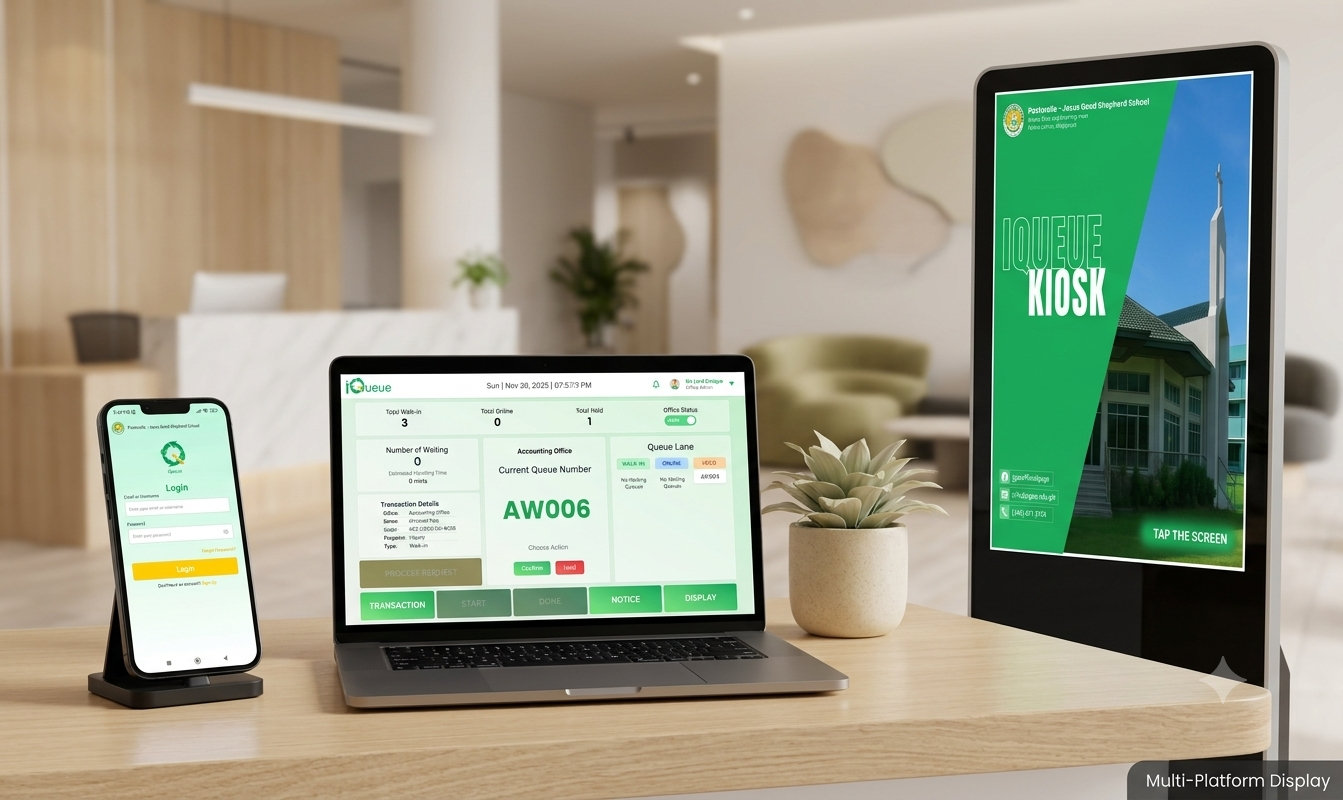
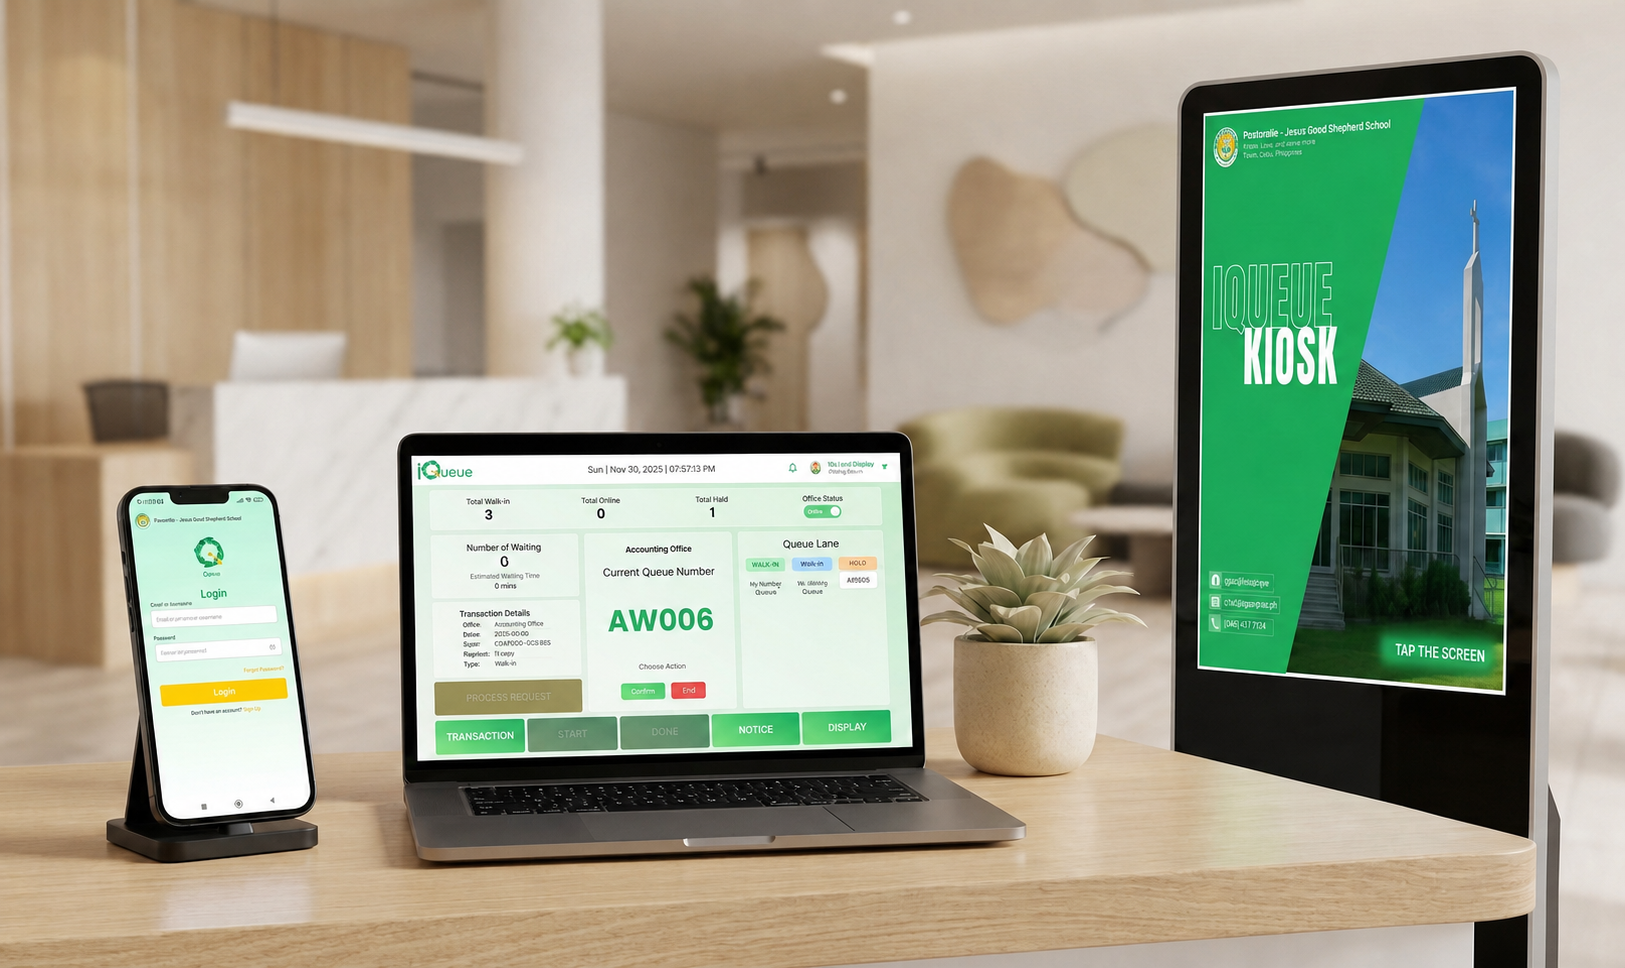
contact us revise

diff --git a/krevance-portfolio/src/components/sections/contactus-page/utils/labels.ts b/krevance-portfolio/src/components/sections/contactus-page/utils/labels.ts
@@ -1,18 +1,23 @@
 // src/components/sections/contactus-page/utils/labels.ts
 import { ProjectType, SelectOption, BudgetOption, TimelineOption, AddOn } from '../types/types';
 
+// ─── Project Types ────────────────────────────────────────────────────────
 export const projectTypes: ProjectType[] = [
-  { id: 1, name: 'System Development' },
-  { id: 4, name: 'E-Commerce Systems' },
-  { id: 5, name: 'Branding & Digital Creative' },
-  { id: 6, name: 'Monthly Website Maintenance' },
+  { id: 1, name: 'Business Operations System' },
+  { id: 2, name: 'Inventory Management System' },
+  { id: 3, name: 'E-commerce Website' },
+  { id: 4, name: 'Portfolio Website' },
+  { id: 5, name: 'Digital Invitation Website' },
+  { id: 6, name: 'Branding and Creative Design' },
+  { id: 7, name: 'System Maintenance and Care Plan' },
 ];
 
+// ─── Stage & Goal Options (unchanged) ────────────────────────────────────
 export const stageOptions: SelectOption[] = [
-  { value: 'idea',        label: 'Just an idea' },
-  { value: 'planning',    label: 'Planning stage' },
-  { value: 'ready',       label: 'Ready to start' },
-  { value: 'inprogress',  label: 'Already in progress' },
+  { value: 'idea',       label: 'Just an idea' },
+  { value: 'planning',   label: 'Planning stage' },
+  { value: 'ready',      label: 'Ready to start' },
+  { value: 'inprogress', label: 'Already in progress' },
 ];
 
 export const goalOptions: SelectOption[] = [
@@ -22,77 +27,134 @@ export const goalOptions: SelectOption[] = [
   { value: 'brand',    label: 'Build brand awareness' },
 ];
 
-// ─── Budget options are now dependent on the selected project type ─────────
+// ─── Budget Options by Project Type ──────────────────────────────────────
 // Key = ProjectType.id, Value = list of budget tiers for that service.
 export const budgetOptionsByProjectType: Record<number, BudgetOption[]> = {
-  // 1 — System Development
+
+  // 1 — Business Operations System
   1: [
-    { id: 'sys-starter',  label: 'Starter Project',  basePrice: 15000 },
-    { id: 'sys-business', label: 'Business Project', basePrice: 40000 },
-    { id: 'sys-premium',  label: 'Premium Project',  basePrice: 95000 },
+    { id: 'bos-starter',  label: 'Starter Package',  basePrice: 20000 },
+    { id: 'bos-business', label: 'Business Package', basePrice: 45000 },
+    { id: 'bos-premium',  label: 'Premium Package',  basePrice: 95000 },
   ],
 
-  // 4 — E-Commerce Systems
+  // 2 — Inventory Management System
+  2: [
+    { id: 'inv-starter',  label: 'Starter Package',  basePrice: 20000 },
+    { id: 'inv-business', label: 'Business Package', basePrice: 45000 },
+    { id: 'inv-premium',  label: 'Premium Package',  basePrice: 95000 },
+  ],
+
+  // 3 — E-commerce Website  (no Starter tier)
+  3: [
+    { id: 'ecom-business', label: 'Business Package', basePrice: 55000 },
+    { id: 'ecom-premium',  label: 'Premium Package',  basePrice: 130000 },
+  ],
+
+  // 4 — Portfolio Website
   4: [
-    { id: 'ecom-business', label: 'Business Project', basePrice: 50000 },
-    { id: 'ecom-premium',  label: 'Premium Project',  basePrice: 120000 },
+    { id: 'port-starter',  label: 'Starter Package',  basePrice: 10000 },
+    { id: 'port-business', label: 'Business Package', basePrice: 20000 },
+    { id: 'port-premium',  label: 'Premium Package',  basePrice: 40000 },
   ],
 
-  // 5 — Branding & Digital Creative
+  // 5 — Digital Invitation Website
   5: [
-    { id: 'brand-starter',  label: 'Starter Project',  basePrice: 2500 },
-    { id: 'brand-business', label: 'Business Project', basePrice: 3500 },
-    { id: 'brand-premium',  label: 'Premium Project',  basePrice: 7500 },
+    { id: 'digi-starter',  label: 'Starter Package',  basePrice: 5000 },
+    { id: 'digi-business', label: 'Business Package', basePrice: 15000 },
+    { id: 'digi-premium',  label: 'Premium Package',  basePrice: 30000 },
   ],
 
-  // 6 — Monthly Website Maintenance
+  // 6 — Branding and Creative Design
   6: [
-    { id: 'maint-starter', label: 'Starter Project (per month)', basePrice: 3000 },
+    { id: 'brand-starter',  label: 'Starter Package',  basePrice: 3000 },
+    { id: 'brand-business', label: 'Business Package', basePrice: 6000 },
+    { id: 'brand-premium',  label: 'Premium Package',  basePrice: 12000 },
+  ],
+
+  // 7 — System Maintenance and Care Plan
+  7: [
+    { id: 'maint-monthly', label: 'Monthly Plan',  basePrice: 1500 },
+    { id: 'maint-yearly',  label: 'Yearly Plan',   basePrice: 15000 },
   ],
 };
 
+// ─── Add-Ons by Project Type ─────────────────────────────────────────────
 export const addOnsByProjectType: Record<number, AddOn[]> = {
-  // 1 — System Development
+
+  // 1 — Business Operations System
   1: [
-    { id: 'sys-domain',          name: 'Website Domain (.com)',           price: 800, priceLabel: '₱800 per year' },
-    { id: 'sys-mobile-platform', name: 'Platform | Mobile Application',   price: 5000, priceLabel: 'Starting at ₱5,000' },
-    { id: 'sys-desktop-platform',name: 'Platform | Desktop Application',  price: 5000, priceLabel: 'Starting at ₱5,000' },
-    { id: 'sys-playstore',       name: 'Application | Google Playstore',  price: 1000 },
-    { id: 'sys-appstore',        name: 'Application | iOS Apple Store',   price: 5000 },
-    { id: 'sys-extra-page',      name: 'Additional Website Page',         price: 1500, priceLabel: '₱1,500 / per page' },
-    { id: 'sys-extra-feature',   name: 'Additional Feature',              price: 2000, priceLabel: 'Starting at ₱2,000' },
-    { id: 'sys-animation',       name: 'Custom Animation / Motion',       price: 3000, priceLabel: '₱3,000 / per page' },
-    { id: 'sys-seo',             name: 'SEO Starter Project',             price: 3000 },
-    { id: 'sys-social-kit',      name: 'Social Media Branding Kit',       price: 2500 },
+    { id: 'bos-domain',           name: 'Website Domain (.com)',          price: 800,  priceLabel: '₱800 per year' },
+    { id: 'bos-mobile-platform',  name: 'Platform | Mobile Application',  price: 5000, priceLabel: 'Starting at ₱5,000' },
+    { id: 'bos-desktop-platform', name: 'Platform | Desktop Application', price: 5000, priceLabel: 'Starting at ₱5,000' },
+    { id: 'bos-playstore',        name: 'Application | Google Playstore', price: 1000 },
+    { id: 'bos-appstore',         name: 'Application | iOS Apple Store',  price: 5000 },
+    { id: 'bos-extra-feature',    name: 'Additional Feature',             price: 2000, priceLabel: 'Starting at ₱2,000' },
+    { id: 'bos-animation',        name: 'Custom Animation / Motion',      price: 3000, priceLabel: '₱3,000 / per page' },
+    { id: 'bos-seo',              name: 'SEO Starter Package',            price: 3000 },
+    { id: 'bos-social-kit',       name: 'Social Media Branding Kit',      price: 2500 },
   ],
 
-  // 4 — E-Commerce Systems
+  // 2 — Inventory Management System
+  2: [
+    { id: 'inv-domain',           name: 'Website Domain (.com)',          price: 800,  priceLabel: '₱800 per year' },
+    { id: 'inv-mobile-platform',  name: 'Platform | Mobile Application',  price: 5000, priceLabel: 'Starting at ₱5,000' },
+    { id: 'inv-desktop-platform', name: 'Platform | Desktop Application', price: 5000, priceLabel: 'Starting at ₱5,000' },
+    { id: 'inv-playstore',        name: 'Application | Google Playstore', price: 1000 },
+    { id: 'inv-appstore',         name: 'Application | iOS Apple Store',  price: 5000 },
+    { id: 'inv-extra-feature',    name: 'Additional Feature',             price: 2000, priceLabel: 'Starting at ₱2,000' },
+    { id: 'inv-barcode',          name: 'Barcode / QR Scanner Module',    price: 5000, priceLabel: 'Starting at ₱5,000' },
+    { id: 'inv-seo',              name: 'SEO Starter Package',            price: 3000 },
+    { id: 'inv-social-kit',       name: 'Social Media Branding Kit',      price: 2500 },
+  ],
+
+  // 3 — E-commerce Website
+  3: [
+    { id: 'ecom-domain',          name: 'Website Domain (.com)',          price: 800,  priceLabel: '₱800 per year' },
+    { id: 'ecom-mobile-platform', name: 'Platform | Mobile Application',  price: 5000, priceLabel: 'Starting at ₱5,000' },
+    { id: 'ecom-extra-page',      name: 'Additional Website Page',        price: 1500, priceLabel: '₱1,500 / per page' },
+    { id: 'ecom-extra-feature',   name: 'Additional Feature',             price: 2000, priceLabel: 'Starting at ₱2,000' },
+    { id: 'ecom-seo',             name: 'SEO Starter Package',            price: 3000 },
+    { id: 'ecom-social-kit',      name: 'Social Media Branding Kit',      price: 2500 },
+  ],
+
+  // 4 — Portfolio Website
   4: [
-    { id: 'ecom-domain',         name: 'Website Domain (.com)',           price: 800, priceLabel: '₱800 per year' },
-    { id: 'ecom-mobile-platform',name: 'Platform | Mobile Application',   price: 5000, priceLabel: 'Starting at ₱5,000' },
-    { id: 'ecom-extra-page',     name: 'Additional Website Page',         price: 1500, priceLabel: '₱1,500 / per page' },
-    { id: 'ecom-extra-feature',  name: 'Additional Feature',              price: 2000, priceLabel: 'Starting at ₱2,000' },
-    { id: 'ecom-seo',            name: 'SEO Starter Project',             price: 3000 },
-    { id: 'ecom-social-kit',     name: 'Social Media Branding Kit',       price: 2500 },
+    { id: 'port-domain',       name: 'Website Domain (.com)',       price: 800,  priceLabel: '₱800 per year' },
+    { id: 'port-extra-page',   name: 'Additional Website Page',     price: 1500, priceLabel: '₱1,500 / per page' },
+    { id: 'port-extra-feature',name: 'Additional Feature',          price: 2000, priceLabel: 'Starting at ₱2,000' },
+    { id: 'port-animation',    name: 'Custom Animation / Motion',   price: 3000, priceLabel: '₱3,000 / per page' },
+    { id: 'port-seo',          name: 'SEO Starter Package',         price: 3000 },
+    { id: 'port-social-kit',   name: 'Social Media Branding Kit',   price: 2500 },
   ],
 
-  // 5 — Branding & Digital Creative
+  // 5 — Digital Invitation Website
   5: [
-    { id: 'brand-animation',   name: 'Custom Animation / Motion', price: 3000, priceLabel: '₱3,000 / per page' },
-    { id: 'brand-social-kit',  name: 'Social Media Branding Kit', price: 2500 },
+    { id: 'digi-domain',       name: 'Website Domain (.com)',       price: 800,  priceLabel: '₱800 per year' },
+    { id: 'digi-extra-page',   name: 'Additional Event Page',       price: 1500, priceLabel: '₱1,500 / per page' },
+    { id: 'digi-animation',    name: 'Custom Animation / Motion',   price: 3000, priceLabel: '₱3,000 / per page' },
+    { id: 'digi-music',        name: 'Background Music License',    price: 1000, priceLabel: '₱1,000' },
+    { id: 'digi-qr-checkin',   name: 'QR Code Check-In Module',     price: 2000, priceLabel: '₱2,000' },
   ],
 
-  // 6 — Monthly Website Maintenance
+  // 6 — Branding and Creative Design
   6: [
-    { id: 'maint-extra-page',    name: 'Additional Website Page', price: 1500, priceLabel: '₱1,500 / per page' },
-    { id: 'maint-extra-feature', name: 'Additional Feature',      price: 2000, priceLabel: 'Starting at ₱2,000' },
+    { id: 'brand-animation',   name: 'Custom Animation / Motion',   price: 3000, priceLabel: '₱3,000 / per piece' },
+    { id: 'brand-social-kit',  name: 'Social Media Branding Kit',   price: 2500 },
+    { id: 'brand-extra-logo',  name: 'Additional Logo Concept',     price: 1500, priceLabel: '₱1,500 / per concept' },
+    { id: 'brand-extra-material', name: 'Additional Marketing Material', price: 1000, priceLabel: '₱1,000 / per piece' },
+  ],
+
+  // 7 — System Maintenance and Care Plan
+  7: [
+    { id: 'maint-extra-page',    name: 'Additional Website Page',   price: 1500, priceLabel: '₱1,500 / per page' },
+    { id: 'maint-extra-feature', name: 'Additional Feature',        price: 2000, priceLabel: 'Starting at ₱2,000' },
+    { id: 'maint-seo',           name: 'SEO Starter Package',       price: 3000 },
+    { id: 'maint-backup',        name: 'Advanced Backup Setup',     price: 2000, priceLabel: '₱2,000 one-time' },
   ],
 };
 
-/**
- * Get the budget tier list for a given project type.
- * Returns [] if project type isn't selected yet.
- */
+// ─── Helper: get budget tiers for a project type ─────────────────────────
 export const getBudgetOptions = (projectTypeId: number | null): BudgetOption[] => {
   if (!projectTypeId) return [];
   return budgetOptionsByProjectType[projectTypeId] ?? [];
@@ -101,23 +163,25 @@ export const getBudgetOptions = (projectTypeId: number | null): BudgetOption[] =
 /** Flat list of ALL budget options — used by label lookup helper */
 const allBudgetOptions: BudgetOption[] = Object.values(budgetOptionsByProjectType).flat();
 
+// ─── Timeline Options (unchanged) ────────────────────────────────────────
 export const timelineOptions: TimelineOption[] = [
-  { id: 'asap',      label: 'Priority Project', multiplier: 1.35, multiplierLabel: 'Rush (+40%)'    },
-  { id: '1month',    label: 'Within 1 Month', multiplier: 1.15, multiplierLabel: 'Fast (+20%)'    },
-  { id: '3months',   label: 'Within 3 Months', multiplier: 1,    multiplierLabel: 'Standard (1x)'  },
-  { id: 'flexible',  label: 'Flexible', multiplier: 1,  multiplierLabel: 'Standard (1x)' },
+  { id: 'asap',     label: 'Priority Project',  multiplier: 1.35, multiplierLabel: 'Rush (+35%)' },
+  { id: '1month',   label: 'Within 1 Month',    multiplier: 1.15, multiplierLabel: 'Fast (+15%)' },
+  { id: '3months',  label: 'Within 3 Months',   multiplier: 1,    multiplierLabel: 'Standard (1x)' },
+  { id: 'flexible', label: 'Flexible',           multiplier: 1,    multiplierLabel: 'Standard (1x)' },
 ];
 
+// ─── Referral Options (unchanged) ────────────────────────────────────────
 export const referralOptions: SelectOption[] = [
-  { value: 'Google Search',  label: 'Google Search' },
-  { value: 'Facebook', label: 'Facebook' },
-  { value: 'Instagram',  label: 'Instagram' },
-  { value: 'LinkedIn',  label: 'LinkedIn' },
-  { value: 'Friend Referral',  label: 'Friend Referral' },
-  { value: 'Event',  label: 'Event' },
+  { value: 'Google Search',   label: 'Google Search' },
+  { value: 'Facebook',        label: 'Facebook' },
+  { value: 'Instagram',       label: 'Instagram' },
+  { value: 'LinkedIn',        label: 'LinkedIn' },
+  { value: 'Friend Referral', label: 'Friend Referral' },
+  { value: 'Event',           label: 'Event' },
 ];
 
-// ─── Label helpers ───────────────────────────────────────────────────────
+// ─── Label Helpers ───────────────────────────────────────────────────────
 export const getProjectTypeLabel = (id: number | null): string =>
   id ? projectTypes.find((p) => p.id === id)?.name ?? '-' : '-';
 
@@ -130,7 +194,7 @@ export const getGoalLabel = (value: string): string =>
 export const getBudgetLabel = (id: string): string =>
   allBudgetOptions.find((b) => b.id === id)?.label ?? '-';
 
-/** Get base price from a budget id — replaces the old `budgetPriceMap` */
+/** Get base price from a budget id */
 export const getBudgetPrice = (id: string): number | null =>
   allBudgetOptions.find((b) => b.id === id)?.basePrice ?? null;
 
@@ -148,7 +212,7 @@ export const getAddOns = (projectTypeId: number | null): AddOn[] => {
 /** Flat list of ALL add-ons — used by lookup helpers */
 const allAddOns: AddOn[] = Object.values(addOnsByProjectType).flat();
 
-/** Get a single add-on's price from its id (safe against invalid ids) */
+/** Get a single add-on's price from its id */
 export const getAddOnPrice = (id: string): number | null =>
   allAddOns.find((a) => a.id === id)?.price ?? null;
 
